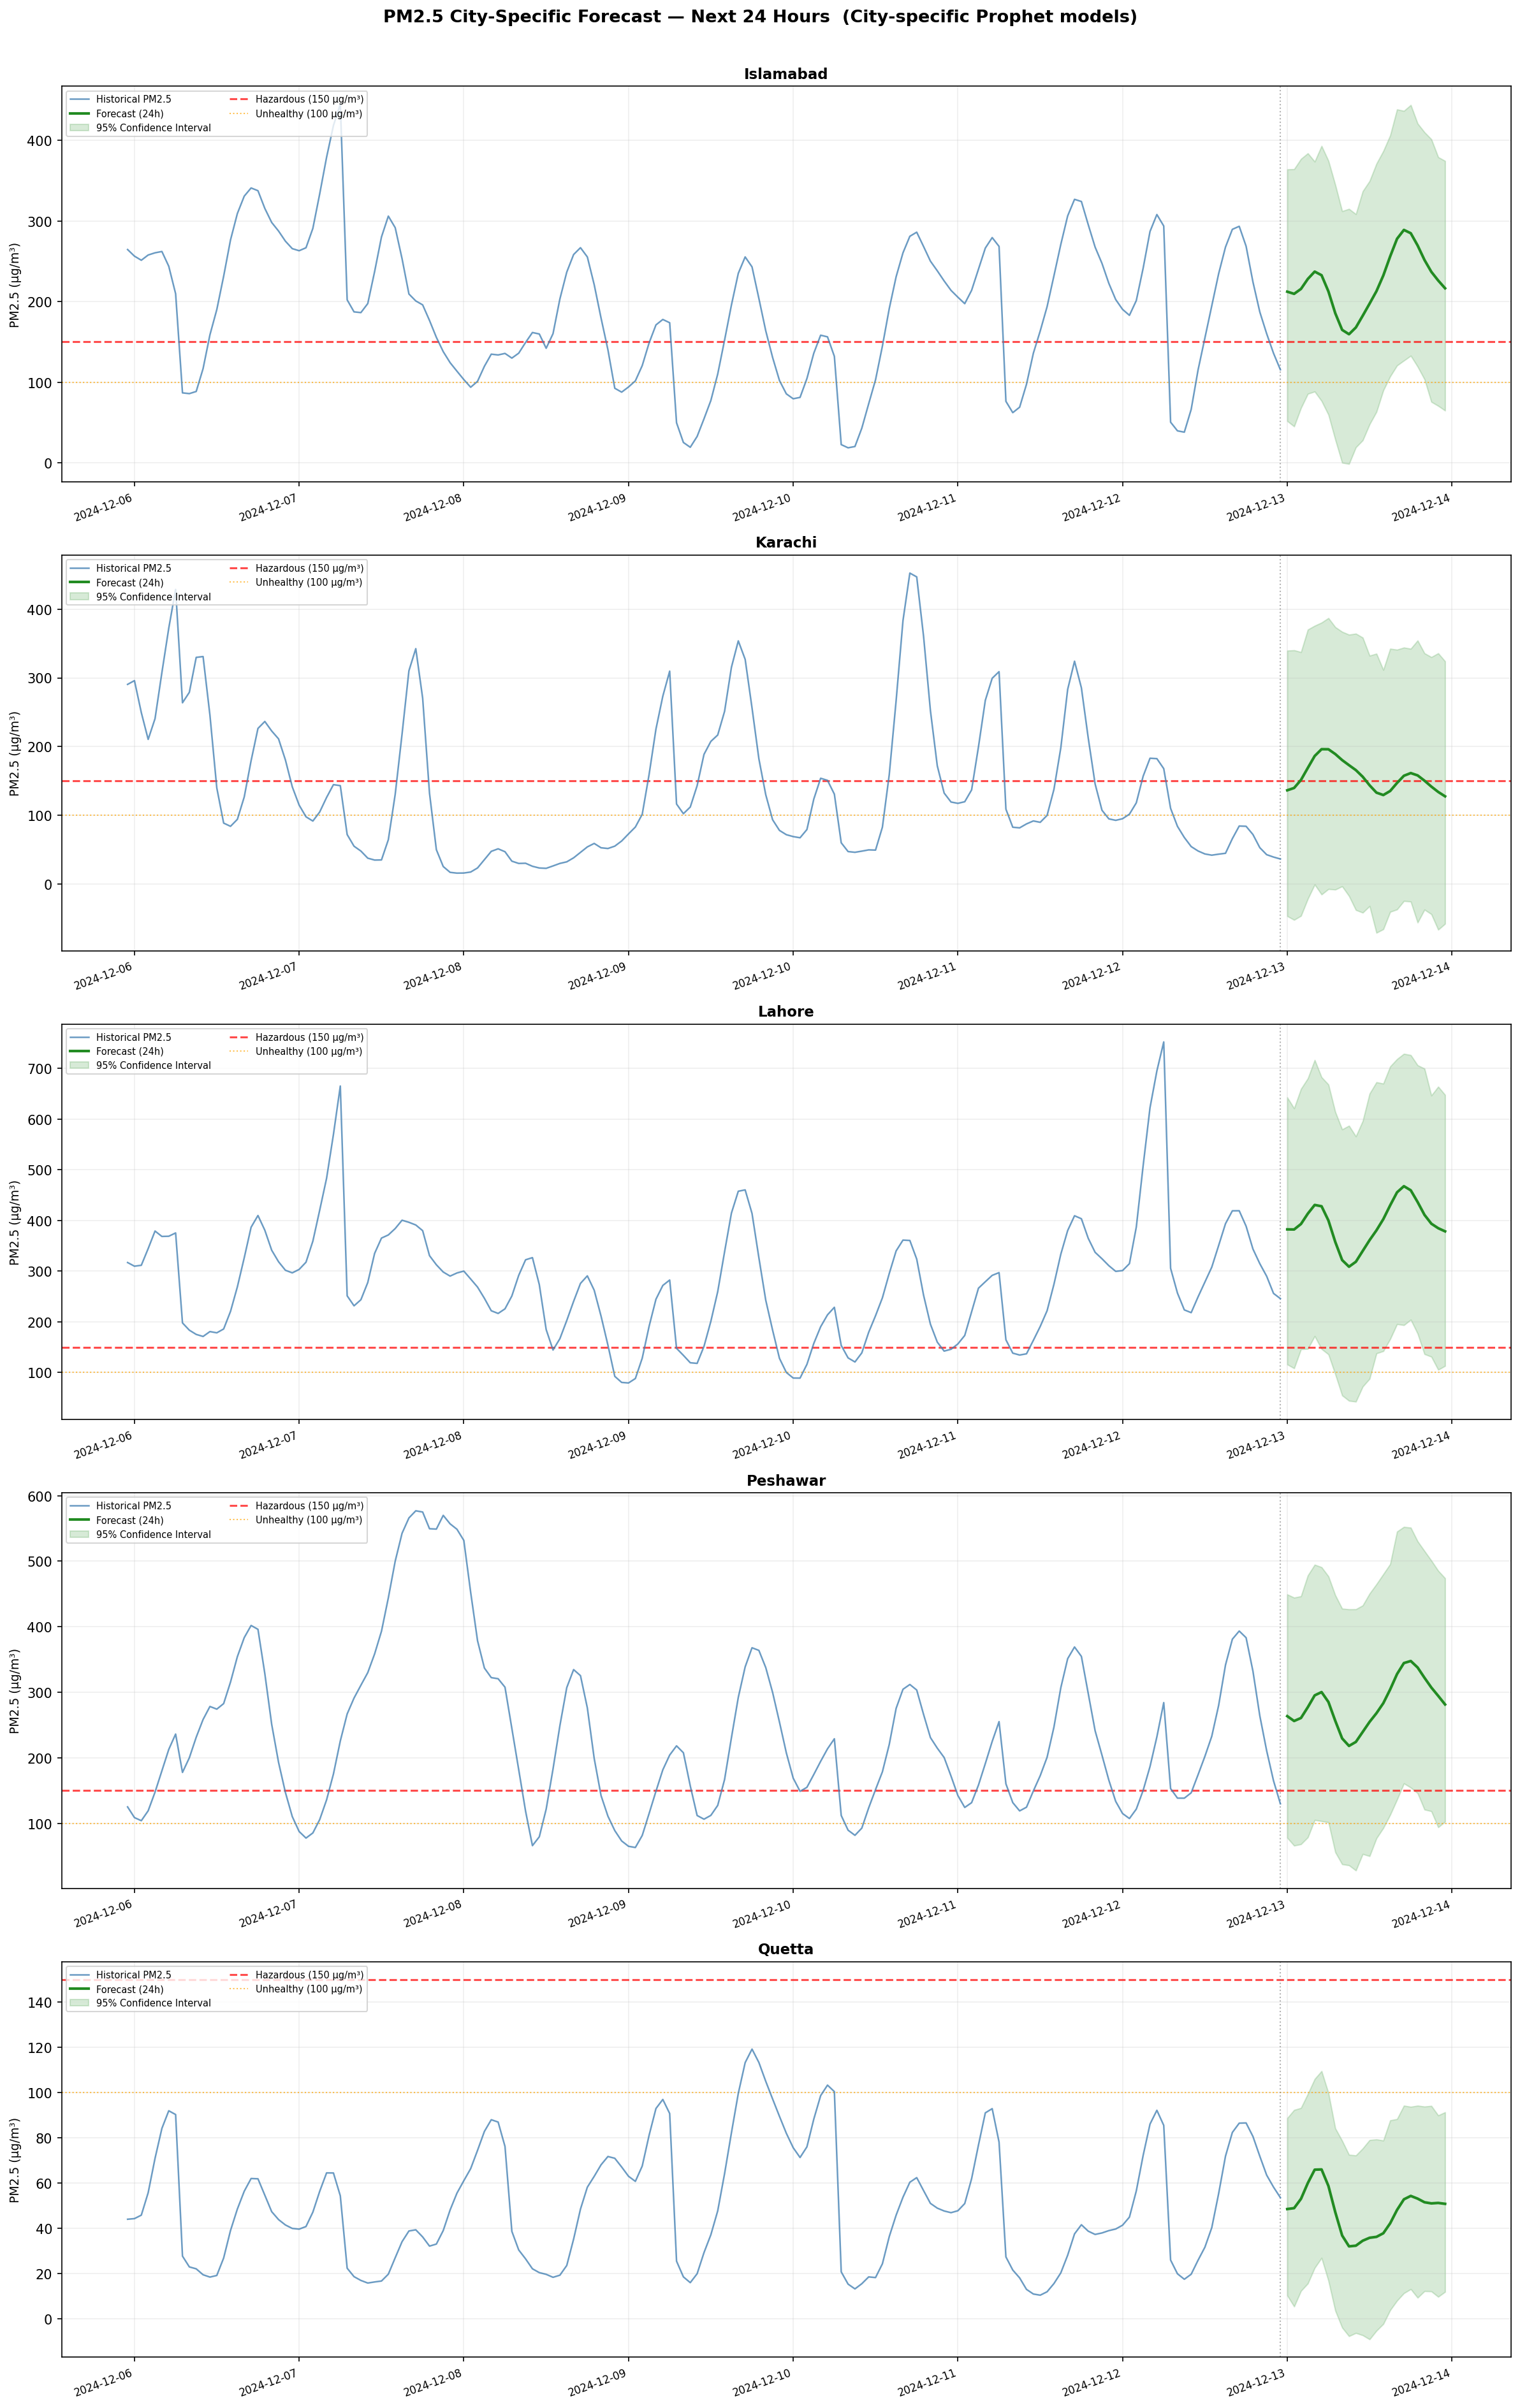
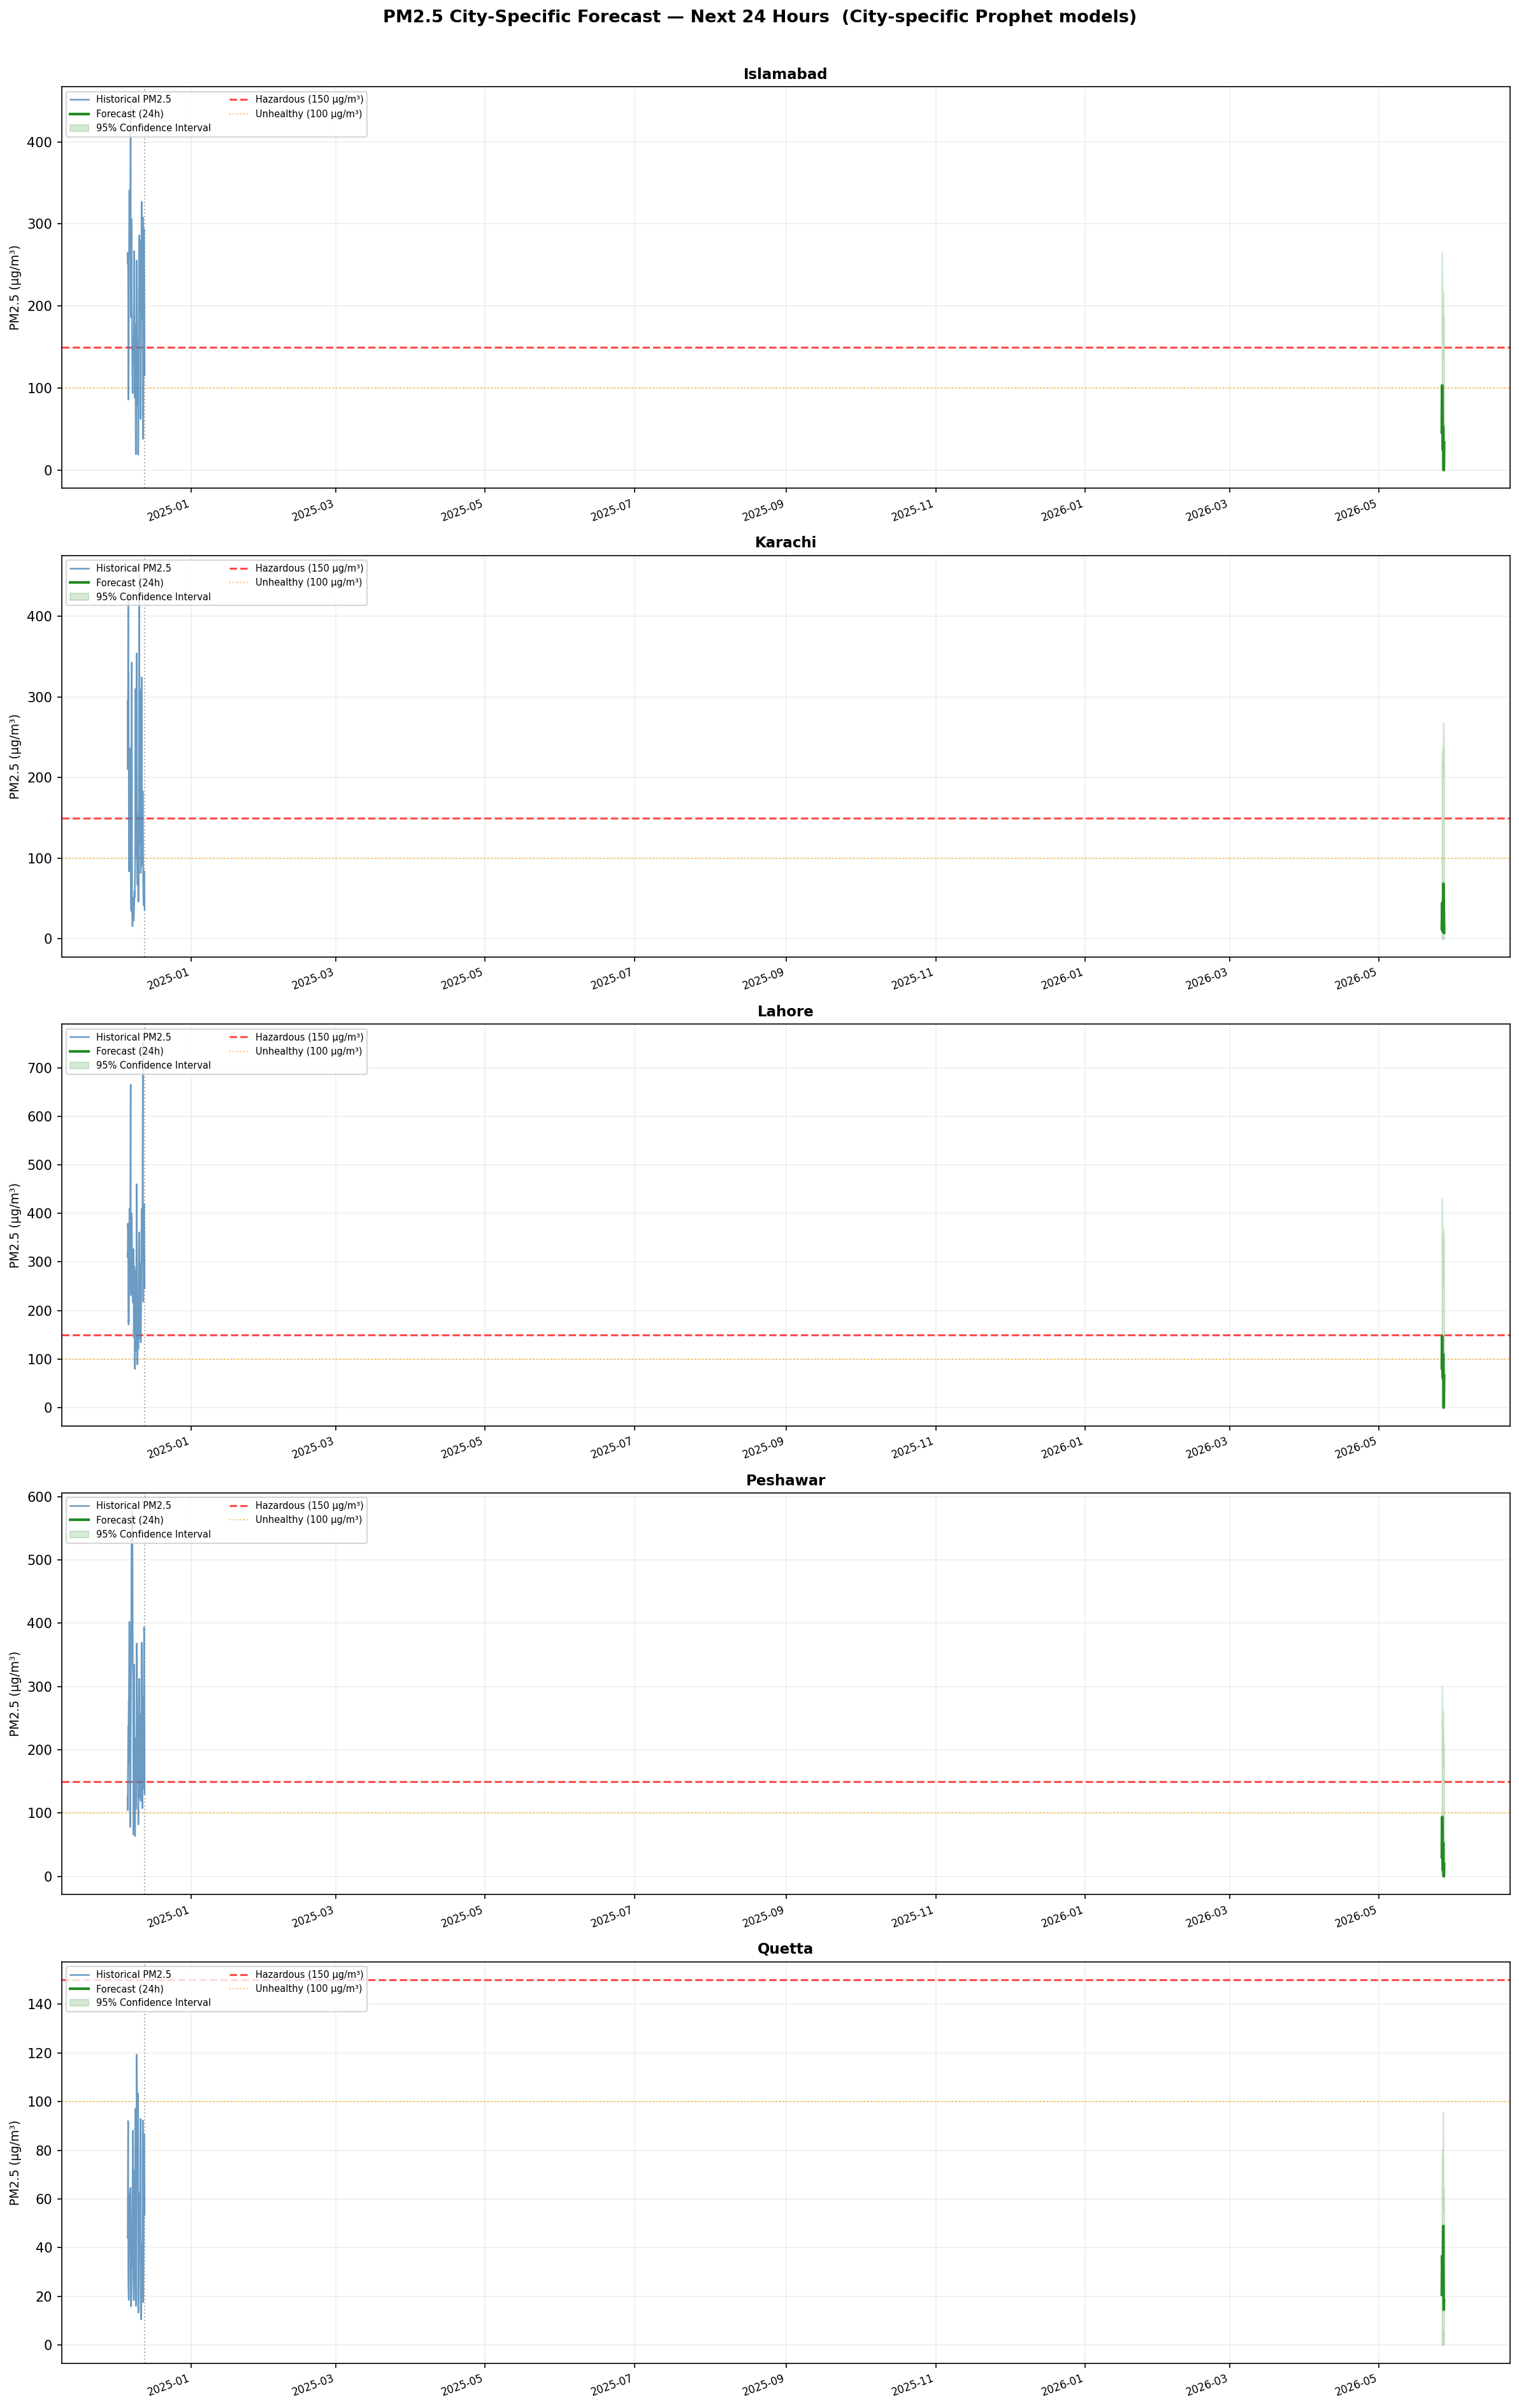
fix: anchor Prophet forecast to current date and prevent negative PM2.5
- Replace make_future_dataframe() with a pd.date_range from datetime.now()
  so the 24h forecast covers today's hours instead of Dec 2024 + 24h
- Set growth='flat' to drop the trend component; extrapolating the
  late-2024 downward slope ~18 months forward drove Islamabad, Lahore,
  and Karachi to deeply negative predictions
- Add clip(lower=0) as a hard physical floor on yhat / confidence bounds
- Regenerate outputs: forecast_24h.csv, forecast_alerts.csv, forecast_plot.png

diff --git a/src/model.py b/src/model.py
@@ -35,6 +35,7 @@ import numpy as np               # For numerical operations
 import matplotlib.pyplot as plt  # For creating plots and charts
 import seaborn as sns           # For beautiful statistical visualizations
 import joblib                   # For saving/loading machine learning models
+from datetime import datetime    # For anchoring forecasts to today's wall-clock time
 import os                       # For file and directory operations
 
 # Facebook Prophet for time-series forecasting
@@ -1037,8 +1038,13 @@ def forecast_city_with_prophet(city_df, city_name, forecast_hours=24):
           f"({prophet_df['ds'].min().date()} → {prophet_df['ds'].max().date()})")
 
     # ---- Train Prophet ----
-    # interval_width=0.95 → 95% confidence band in the forecast
+    # growth='flat' removes the trend component so Prophet relies only on
+    # seasonality.  When forecasting ~18 months beyond the training window
+    # a linear trend would extrapolate the late-2024 downward slope all the
+    # way to negative PM2.5 — physically impossible and misleading.  Flat
+    # growth anchors predictions to the seasonal mean instead.
     model = Prophet(
+        growth='flat',            # Seasonality only — no trend extrapolation
         daily_seasonality=True,   # Rush-hour peaks within each day
         weekly_seasonality=True,  # Weekday vs. weekend traffic differences
         yearly_seasonality=True,  # Winter smog season vs. summer
@@ -1051,18 +1057,36 @@ def forecast_city_with_prophet(city_df, city_name, forecast_hours=24):
     os.makedirs("models", exist_ok=True)
     joblib.dump(model, model_path, compress=3)
 
-    # ---- Build the future dataframe and predict ----
-    # make_future_dataframe returns historical timestamps PLUS the next
-    # forecast_hours hourly slots beyond the last observed data point.
-    future_df = model.make_future_dataframe(periods=forecast_hours, freq='h')
-    forecast   = model.predict(future_df)
-
     last_training_ts = prophet_df['ds'].max()
 
-    # Keep only the genuinely future rows (timestamps after last observation)
-    future_forecast = forecast[forecast['ds'] > last_training_ts].copy()
+    # ---- Build the future dataframe anchored to today's wall-clock time ----
+    # We do NOT use make_future_dataframe() here because that method generates
+    # timestamps starting from the last observed data point (Dec 2024), which
+    # would produce a forecast for the past.  Instead we build a date range
+    # starting from the current hour so the forecast covers the next 24 hours
+    # from right now — regardless of when the training data ended.
+    #
+    # Prophet learned the daily / weekly / yearly seasonal patterns from the
+    # training history; it can extrapolate those patterns to any future date,
+    # so today's date is a perfectly valid input even though the training data
+    # ended ~18 months earlier.
+    forecast_start = datetime.now().replace(minute=0, second=0, microsecond=0)
+    future_timestamps = pd.date_range(start=forecast_start,
+                                      periods=forecast_hours, freq='h')
+    future_df = pd.DataFrame({'ds': future_timestamps})
+    forecast  = model.predict(future_df)
 
-    return future_forecast, last_training_ts
+    # PM2.5 cannot be negative — clip any residual negative confidence-bound
+    # values that occasionally appear from the seasonality decomposition.
+    for col in ['yhat', 'yhat_lower', 'yhat_upper']:
+        forecast[col] = forecast[col].clip(lower=0)
+
+    # All rows are already future timestamps — no filtering needed
+    future_forecast = forecast.copy()
+
+    # Return forecast_start as the reference so hours_ahead in alerts is
+    # measured from "now" rather than from the end of the training window.
+    return future_forecast, forecast_start
 
 
 # ============================================================================